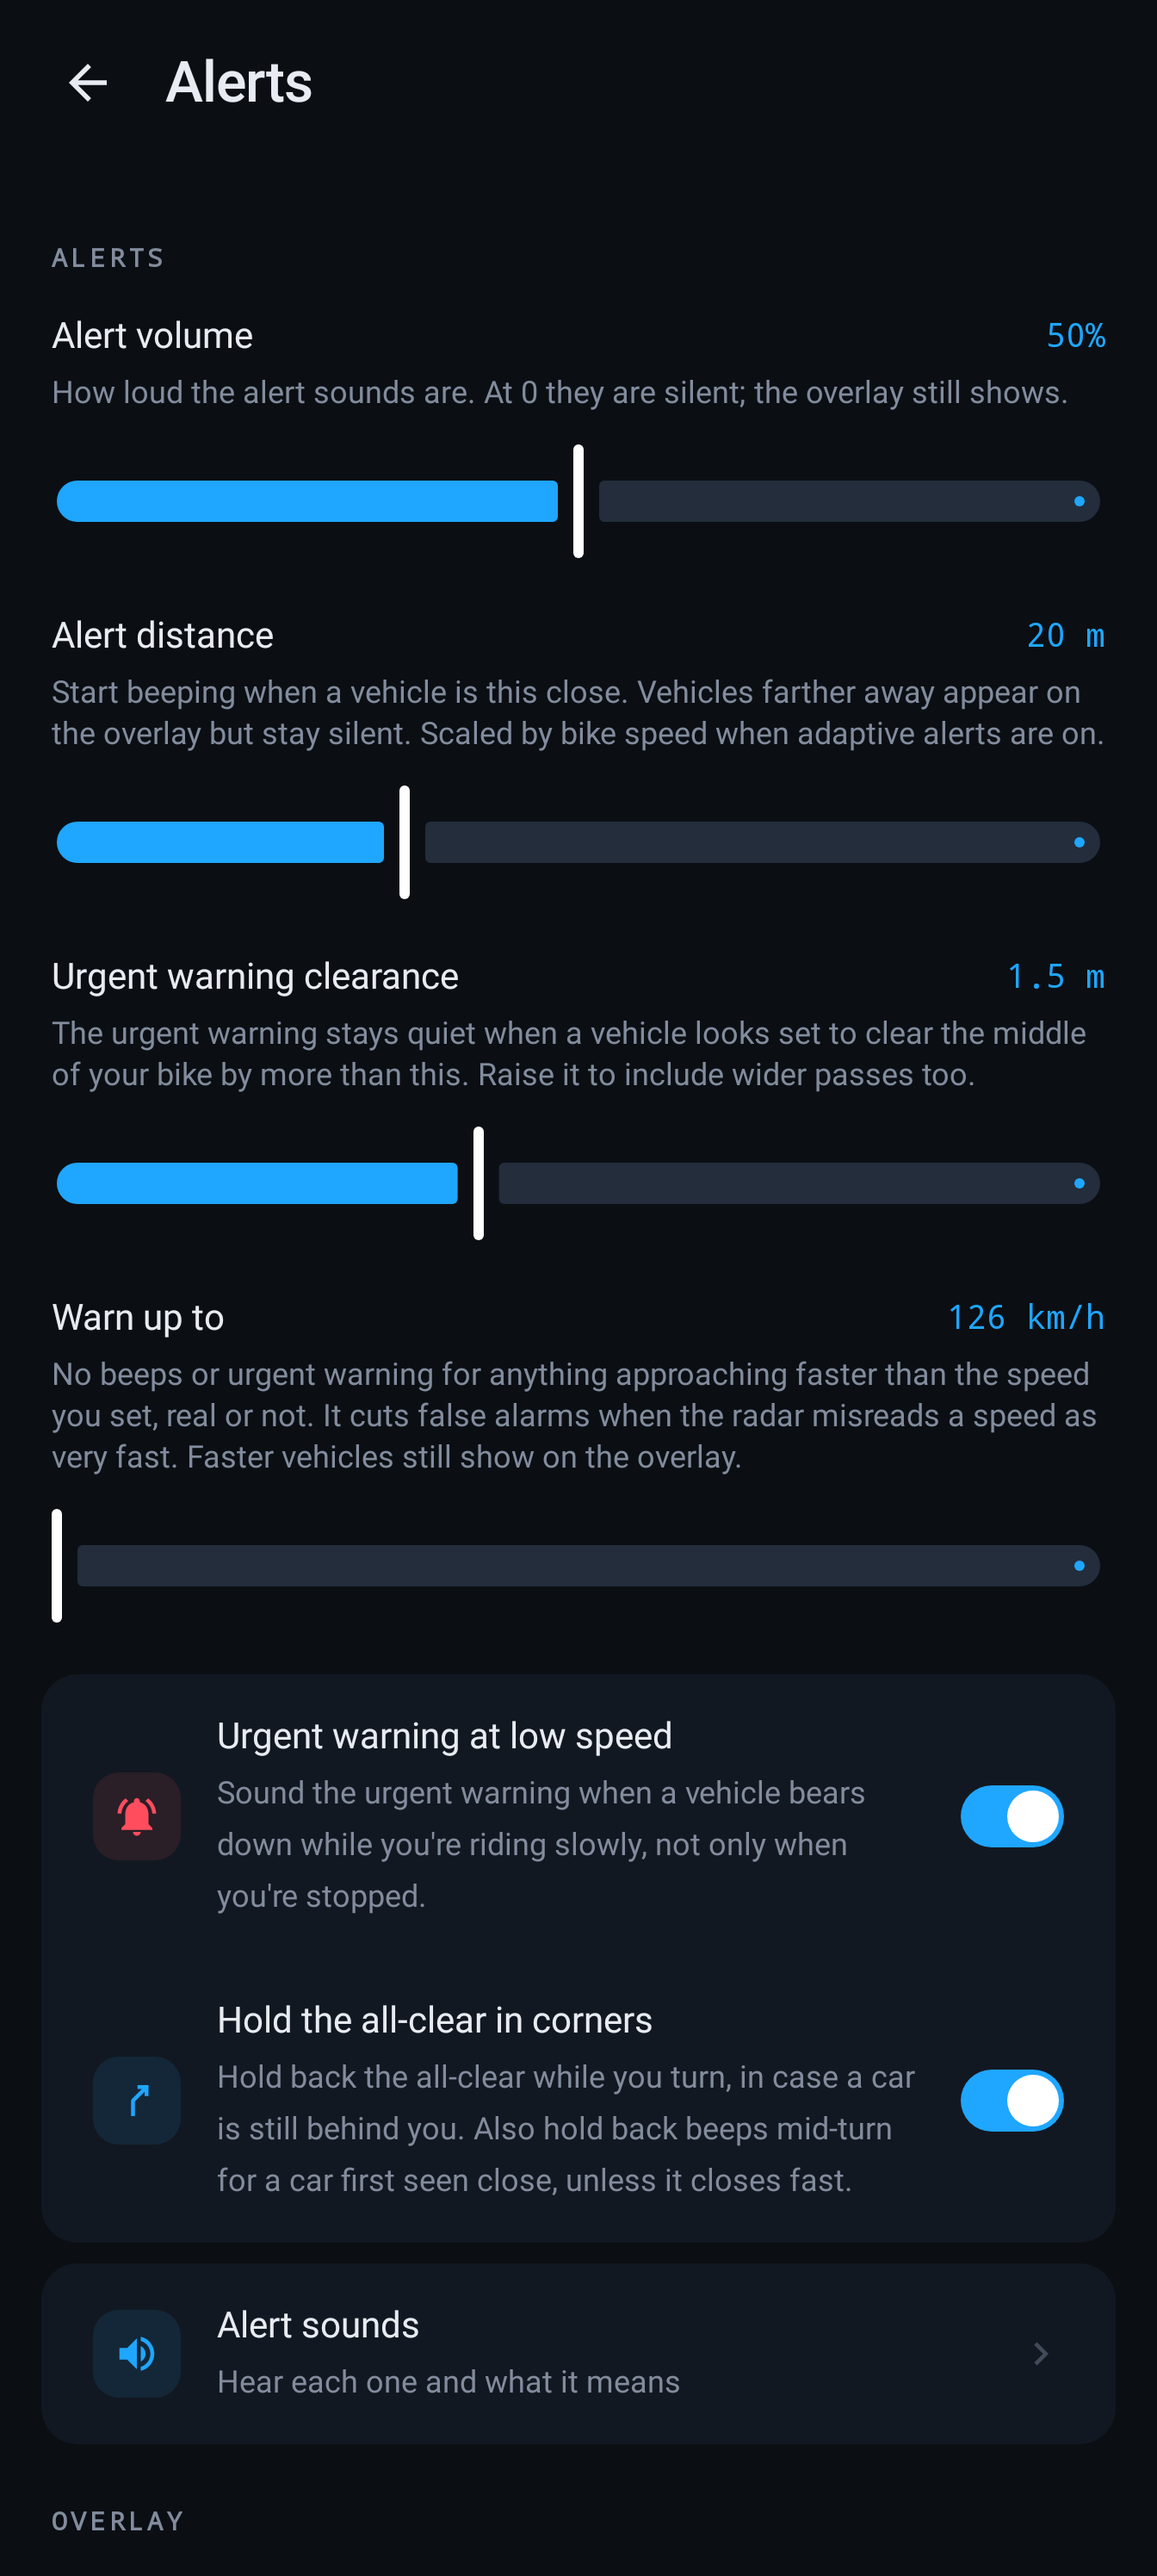
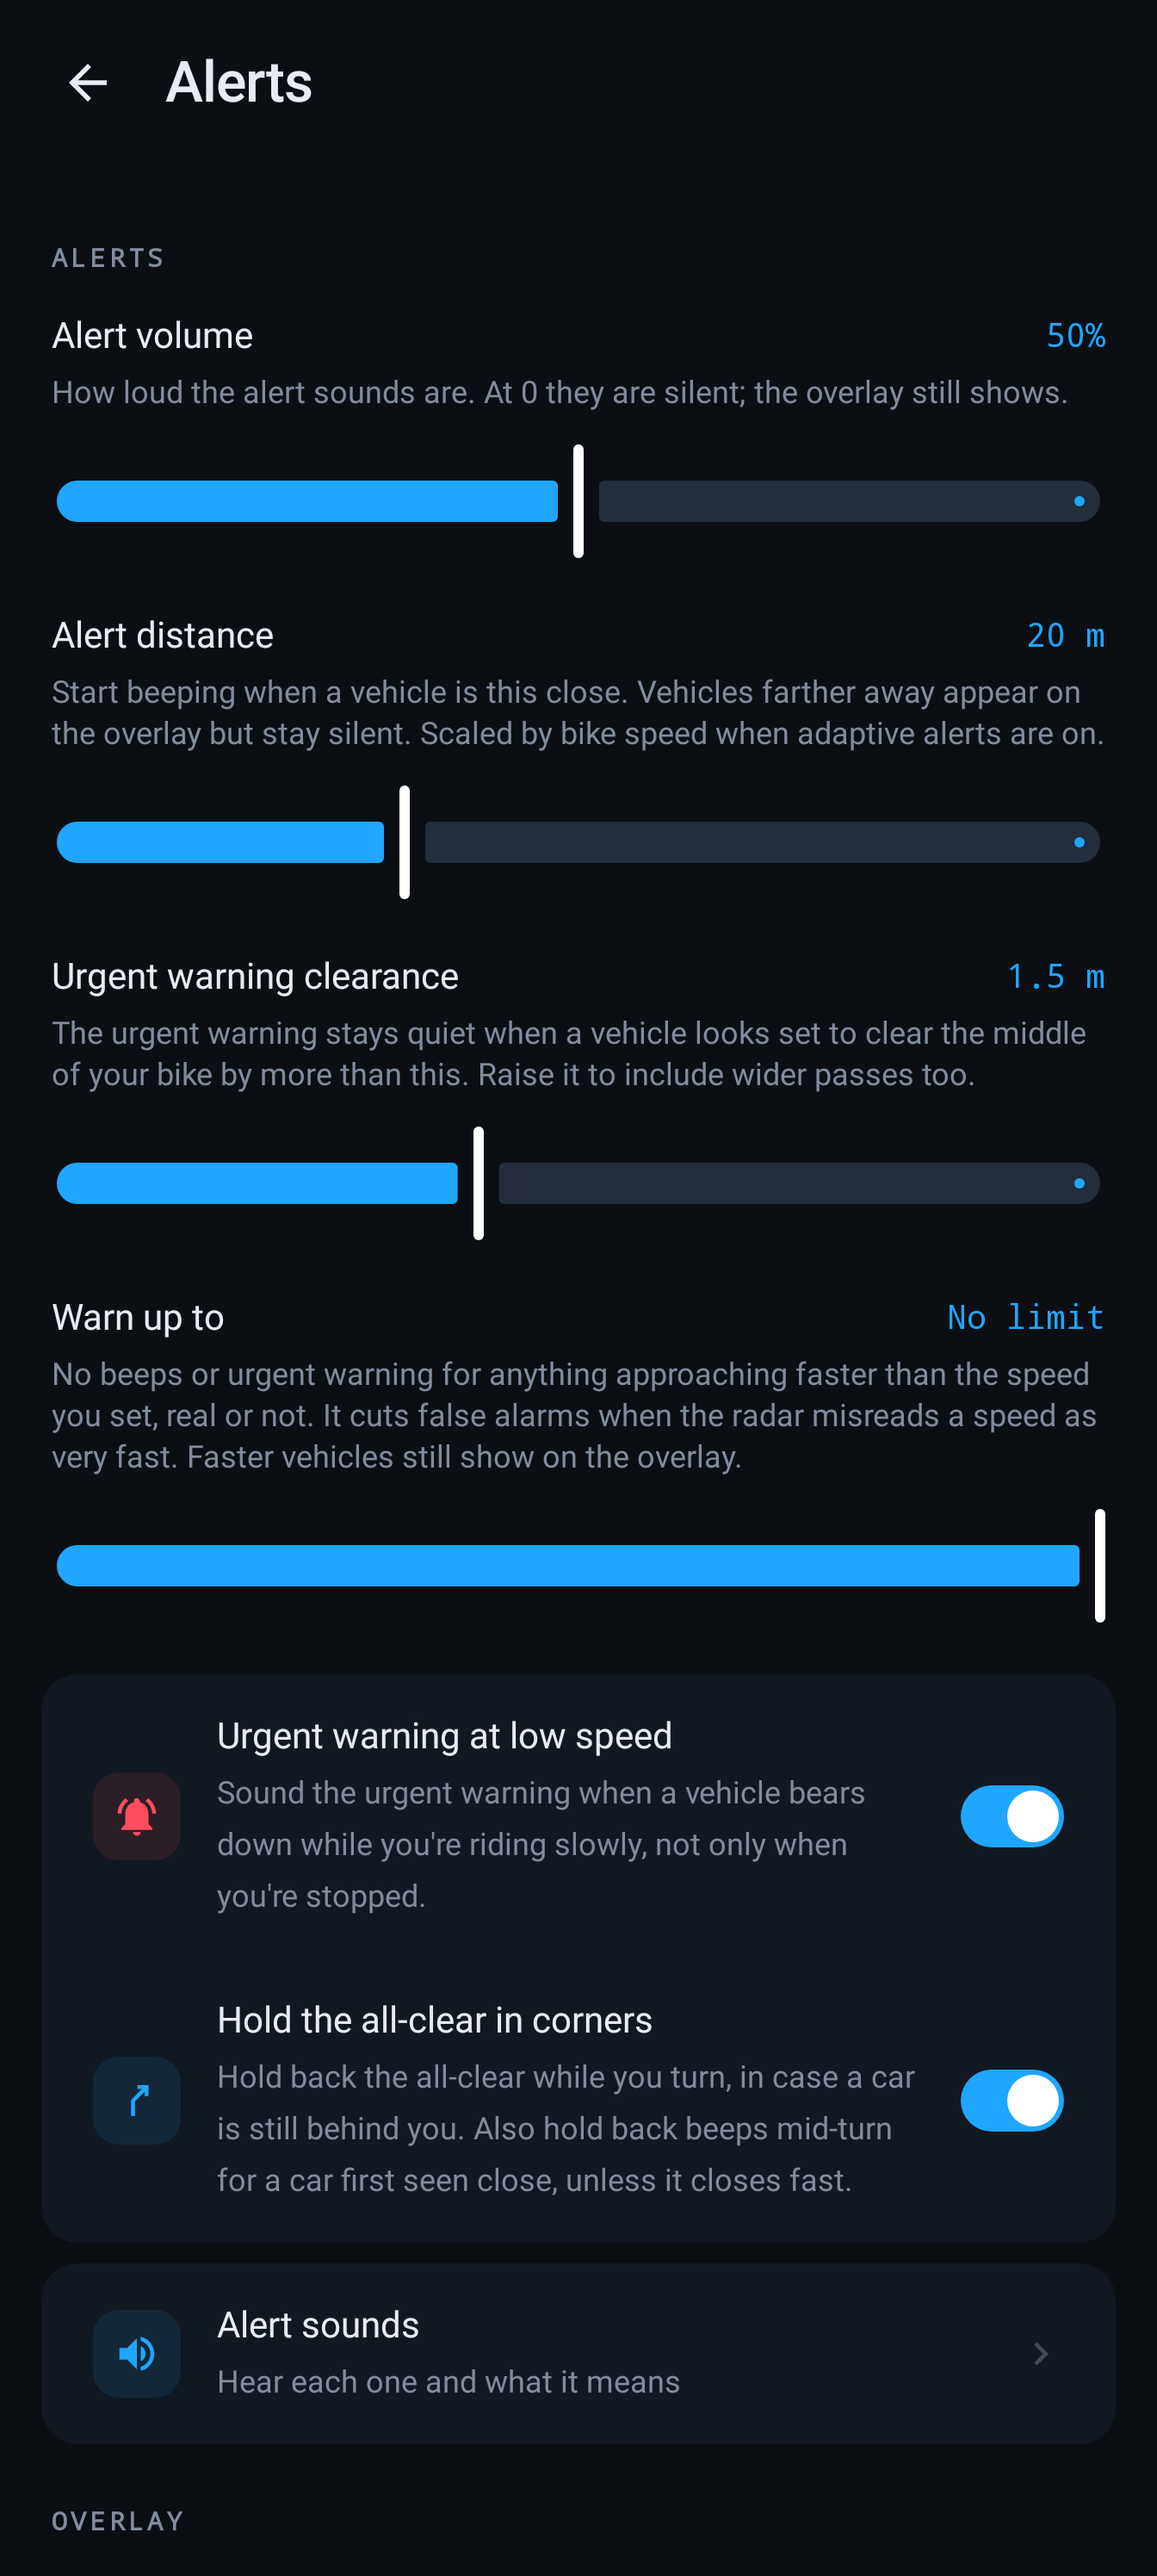
fix(alerts): ship the closing-speed ceiling off by default
A ceiling silences anything reported closing faster, real vehicles
included, and those warnings matter most. The 35 m/s default came from
phantoms on one set of roads, so a rider elsewhere could lose a real
warning without knowing it.

"Warn up to" now starts at "No limit"; a slider value is kept. Corpus
replay: 13 replays over 9 captures change, each a cue returning on a
track the old default caught, none at a plausible speed for those roads.

Changed region(s): [[0.0312, 0.5908, 0.9688, 0.6219], [0.8125, 0.4975, 0.9062, 0.5286]]

diff --git a/app/src/main/java/es/jjrh/bikeradar/AlertDecider.kt b/app/src/main/java/es/jjrh/bikeradar/AlertDecider.kt
@@ -131,9 +131,10 @@ enum class PassScoring { BIKE_ENVELOPE, RADAR_POINT }
  *    also absorbs a single-frame dropout or boundary flap. A car genuinely
  *    leaving (overtake -> `isBehind`, or cornering / turning off) clears after
  *    the grace.
- *  - **Closing-speed ceiling.** A target closing faster than the rider's
- *    ceiling ([DEFAULT_CLOSING_CEILING_MS]) never enters the close set, so it
- *    can neither cue nor stand in front of a real car as "the closest"; it
+ *  - **Closing-speed ceiling.** Off unless the rider sets one (see
+ *    [MIN_CLOSING_CEILING_MS] for the range and why there is no default).
+ *    A target closing faster than it never enters the close set, so it can
+ *    neither cue nor stand in front of a real car as "the closest"; it
  *    still counts as present for the Clear chime. A target beyond
  *    [RX_ABSURD_M] of raw lateral is treated the same way, except on a
  *    [Vehicle.lateralUnknown] frame.
@@ -600,11 +601,11 @@ class AlertDecider(
          *  veto; a predicted hit still fires at any margin. */
         passClearanceM: Float = DEFAULT_PASS_CLEARANCE_M,
         /** Closing speed (m/s) above which a target gets no cue, or null for
-         *  no limit. See [DEFAULT_CLOSING_CEILING_MS]. Not clamped here:
-         *  [data.Prefs] is the only production source. Zero or below reads as
-         *  no limit, so such a value lets every cue through rather than
-         *  silencing them. */
-        closingCeilingMs: Float? = DEFAULT_CLOSING_CEILING_MS,
+         *  no limit, the default (see [MIN_CLOSING_CEILING_MS]). Not clamped
+         *  here: [data.Prefs] is the only production source. Zero or below
+         *  reads as no limit, so such a value lets every cue through rather
+         *  than silencing them. */
+        closingCeilingMs: Float? = null,
     ): Event {
         // Rider-stationary gate. Track when the rider was last observed NOT
         // stationary; once that was more than stationaryDwellMs ago, Beep
@@ -1772,18 +1773,20 @@ class AlertDecider(
         const val MIN_PASS_CLEARANCE_M = 0.5f
         const val MAX_PASS_CLEARANCE_M = 3.0f
 
-        /** Closing speed (m/s) above which a target is treated as a radar
-         *  glitch: it gets no beep and no urgent cue, though it is still drawn
-         *  and still holds back the all-clear. Phantoms seen in captures
-         *  have read 33.5-47 m/s, held nearly unchanged across frames, so this
-         *  default catches the faster ones only. It is also the strictest
-         *  setting the slider offers. A real vehicle closing
-         *  faster than this is silenced too; that is the trade, and why the
-         *  rider can move it to [MIN_CLOSING_CEILING_MS]..[MAX_CLOSING_CEILING_MS]
-         *  or switch it off. `AlertDeciderClosingCeilingTest` pins the boundary
-         *  (strictly faster), that a phantom changes nothing about a real car's
-         *  cues, and that it still holds back the all-clear. */
-        const val DEFAULT_CLOSING_CEILING_MS = 35f
+        /** Range (m/s) of the closing-speed ceiling a rider can set. Above the
+         *  rider's ceiling a target is treated as a radar glitch: no beep and
+         *  no urgent cue, though it is still drawn and still holds back the
+         *  all-clear. Phantoms seen in captures have read 33.5-47 m/s, held
+         *  nearly unchanged across frames.
+         *
+         *  **There is no ceiling unless the rider sets one, deliberately.** A
+         *  real vehicle closing faster is silenced too, and it is the closer a
+         *  warning matters most for; the phantoms behind these values
+         *  come from one rider's roads. Do not restore a default.
+         *  `AlertDeciderClosingCeilingTest` ("omitting the ceiling applies no
+         *  limit") and `PrefsTest` pin it; the same test class pins the
+         *  boundary (strictly faster), that a phantom changes nothing about a
+         *  real car's cues, and that it still holds back the all-clear. */
         const val MIN_CLOSING_CEILING_MS = 35f
         const val MAX_CLOSING_CEILING_MS = 50f
 

diff --git a/app/src/test/java/es/jjrh/bikeradar/OverlayPipelineDrivingTest.kt b/app/src/test/java/es/jjrh/bikeradar/OverlayPipelineDrivingTest.kt
@@ -550,16 +550,17 @@ class OverlayPipelineDrivingTest {
     @Test
     fun theRidersClosingCeilingReachesTheDecider() = runTest {
         // The decider's own tests drive the parameter directly, so they stay
-        // green if the pipeline stops passing it. Under the default 35 m/s the
-        // car is silenced; under a snapshot carrying 45, or no limit, it is
+        // green if the pipeline stops passing it. Under a snapshot carrying
+        // 35 m/s the car is silenced; under 45, or the shipped no limit, it is
         // announced, and the alert line says which ceiling let it through.
-        val shipped = driveFastCloser { prefs.snapshot() }
-        assertEquals(shipped.toString(), 0, shipped.count { it.contains("event=Beep") })
-        assertTrue(shipped.toString(), shipped.any { it.startsWith("# gate ceiling tid=8") })
+        val strict = driveFastCloser { prefs.snapshot().copy(closingSpeedCeilingMs = 35) }
+        assertEquals(strict.toString(), 0, strict.count { it.contains("event=Beep") })
+        assertTrue(strict.toString(), strict.any { it.startsWith("# gate ceiling tid=8") })
         val raised = driveFastCloser { prefs.snapshot().copy(closingSpeedCeilingMs = 45) }
         assertEquals(raised.toString(), 1, raised.count { it.contains("event=Beep") && it.contains("gate_ceiling_mps=45.0") })
-        val noLimit = driveFastCloser { prefs.snapshot().copy(closingSpeedCeilingMs = null) }
-        assertEquals(noLimit.toString(), 1, noLimit.count { it.contains("event=Beep") && it.contains("gate_ceiling_mps=none") })
+        val shipped = driveFastCloser { prefs.snapshot() }
+        assertEquals(shipped.toString(), 1, shipped.count { it.contains("event=Beep") && it.contains("gate_ceiling_mps=none") })
+        assertFalse(shipped.toString(), shipped.any { it.startsWith("# gate ceiling") })
     }
 
     /** Swap in a beeper that records what it actually played. */

diff --git a/app/src/test/java/es/jjrh/bikeradar/ui/SettingsRadarClosingCeilingTest.kt b/app/src/test/java/es/jjrh/bikeradar/ui/SettingsRadarClosingCeilingTest.kt
@@ -14,6 +14,7 @@ import androidx.test.core.app.ApplicationProvider
 import es.jjrh.bikeradar.R
 import es.jjrh.bikeradar.data.Prefs
 import org.junit.Assert.assertEquals
+import org.junit.Assert.assertFalse
 import org.junit.Assert.assertNull
 import org.junit.Before
 import org.junit.Rule
@@ -63,13 +64,29 @@ class SettingsRadarClosingCeilingTest {
 
     @Test
     fun aMiddleStopPersistsItsSpeed() {
-        // Seeded at no limit, away from both the default and the target, so
-        // neither an empty release nor a reset to the default can pass.
+        // Seeded at no limit, away from the target, so an empty release
+        // cannot pass.
         prefs.closingSpeedCeilingMs = null
         showScreen()
         slider().performSemanticsAction(SemanticsActions.SetProgress) { it(2f) }
         composeRule.waitForIdle()
         assertEquals(45, Prefs(app).closingSpeedCeilingMs)
+    }
+
+    @Test
+    fun aFreshInstallOpensOnNoLimitAndStoresNothing() {
+        // The goldens render the leaf with a literal null, so a fallback to a
+        // speed in the screen itself would pass them and show a no-limit rider
+        // a ceiling, which one tap would then store.
+        showScreen()
+        composeRule.waitForIdle()
+        val node = slider().fetchSemanticsNode()
+        assertEquals("No limit", node.config[SemanticsProperties.StateDescription])
+        assertEquals(4f, node.config[SemanticsProperties.ProgressBarRangeInfo].current, 0.001f)
+        assertFalse(
+            app.getSharedPreferences("bike_radar_prefs", android.content.Context.MODE_PRIVATE)
+                .contains(Prefs.KEY_CLOSING_SPEED_CEILING_MS),
+        )
     }
 
     @Test

diff --git a/app/src/test/java/es/jjrh/bikeradar/AlertDeciderClosingCeilingTest.kt b/app/src/test/java/es/jjrh/bikeradar/AlertDeciderClosingCeilingTest.kt
@@ -89,15 +89,14 @@ class AlertDeciderClosingCeilingTest {
         assertTrue(run(approach, bikeSpeedMs = 0f, ceiling = 40f).any { it is Event.UrgentApproach })
     }
 
-    @Test fun `omitting the ceiling applies the shipped default`() {
-        // 37.5 m/s, the slowest phantom the default exists to catch: silenced
-        // at 35, voiced at 40, so this tells the two apart.
-        val phantom37 = listOf(83, 76, 68, 61, 53, 46, 38, 31, 23, 16, 8).map { listOf(target(85, it, 37.5f)) } +
-            List(15) { emptyList() }
-        assertTrue(run(phantom37, bikeSpeedMs = 5f, ceiling = 40f).any { it is Event.Beep })
+    @Test fun `omitting the ceiling applies no limit`() {
+        // 64 m/s is the fastest closing speed the decoder can report, so any
+        // default ceiling below it would silence this target.
+        val fast = listOf(77, 64, 51, 38, 26, 13).map { listOf(target(9, it, 64f)) } + List(15) { emptyList() }
+        assertEquals(emptyList<Event>(), run(fast, bikeSpeedMs = 5f, ceiling = 50f).audible())
         val d = AlertDecider()
-        val events = phantom37.mapIndexed { i, vs -> d.decide(vs, alertMax, 600L + i * frameMs, bikeSpeedMs = 5f) }
-        assertEquals(emptyList<Event>(), events.audible())
+        val events = fast.mapIndexed { i, vs -> d.decide(vs, alertMax, 600L + i * frameMs, bikeSpeedMs = 5f) }
+        assertTrue(events.any { it is Event.Beep })
     }
 
     @Test fun `a phantom closer than a real car changes nothing about the real car's beeps`() {

diff --git a/app/src/test/java/es/jjrh/bikeradar/data/PrefsTest.kt b/app/src/test/java/es/jjrh/bikeradar/data/PrefsTest.kt
@@ -682,12 +682,16 @@ class PrefsTest {
     }
 
     @Test
-    fun `the closing-speed ceiling defaults to 35 and reaches the snapshot and the bundle`() {
-        // The unset path is the one every install takes, and the snapshot is
-        // what the alert pipeline reads.
-        assertEquals(35, prefs.closingSpeedCeilingMs)
-        assertEquals(35, prefs.snapshot().closingSpeedCeilingMs)
-        assertTrue(prefs.dumpAll().contains("closing_speed_ceiling_ms=35"))
+    fun `the closing-speed ceiling defaults to no limit and reaches the snapshot and the bundle`() {
+        // The unset path is the one every install takes, including every
+        // upgrader who never moved the slider, and the snapshot is what the
+        // alert pipeline reads. A rider who chose 35 keeps it.
+        assertNull(prefs.closingSpeedCeilingMs)
+        assertNull(prefs.snapshot().closingSpeedCeilingMs)
+        assertTrue(prefs.dumpAll().contains("closing_speed_ceiling_ms=none"))
+        context.getSharedPreferences(PREFS_FILE, Context.MODE_PRIVATE).edit()
+            .putInt(Prefs.KEY_CLOSING_SPEED_CEILING_MS, 35).commit()
+        assertEquals(35, Prefs(context).snapshot().closingSpeedCeilingMs)
     }
 
     @Test

diff --git a/app/src/test/java/es/jjrh/bikeradar/ui/SettingsRadarSnapshotTest.kt b/app/src/test/java/es/jjrh/bikeradar/ui/SettingsRadarSnapshotTest.kt
@@ -82,23 +82,24 @@ class SettingsRadarSnapshotTest {
     }
 
     @Test
-    fun closingCeilingNoLimit() {
-        // The slider's last stop reads as a label, not a speed.
+    fun closingCeilingSet() {
+        // The defaults render the last stop, a label; a set ceiling reads as a
+        // speed.
         captureRoboImage {
-            UiTheme { RadarContent(haConfigured = false, closingCeiling = null) }
+            UiTheme { RadarContent(haConfigured = false, closingCeiling = 35) }
         }
     }
 
     @Test
     @Config(qualifiers = "+es")
-    fun closingCeilingNoLimitEs() {
+    fun closingCeilingSetEs() {
         captureRoboImage {
-            UiTheme { RadarContent(haConfigured = false, closingCeiling = null) }
+            UiTheme { RadarContent(haConfigured = false, closingCeiling = 35) }
         }
     }
 
     @Composable
-    private fun RadarContent(haConfigured: Boolean, closingCeiling: Int? = 35) {
+    private fun RadarContent(haConfigured: Boolean, closingCeiling: Int? = null) {
         SettingsRadarContent(
             navController = rememberNavController(),
             haConfigured = haConfigured,

diff --git a/app/src/test/java/es/jjrh/bikeradar/AlertDeciderGhostGateTest.kt b/app/src/test/java/es/jjrh/bikeradar/AlertDeciderGhostGateTest.kt
@@ -378,7 +378,7 @@ class AlertDeciderGhostGateTest {
     private fun events(
         frames: List<List<Vehicle>>,
         gateLines: MutableList<String> = mutableListOf(),
-        closingCeilingMs: Float? = AlertDecider.DEFAULT_CLOSING_CEILING_MS,
+        closingCeilingMs: Float? = null,
     ): List<AlertDecider.Event> {
         val d = AlertDecider(onGateEvent = { gateLines.add(it) })
         val c = Clock()
@@ -392,7 +392,7 @@ class AlertDeciderGhostGateTest {
         // nearer by true range until the car is inside 10.7 m. The veto must
         // not depend on the closing-speed ceiling, which a rider can turn off.
         val withOffRoad = approach.mapIndexed { i, vs -> if (i <= 22) vs + offRoad() else vs }
-        for (ceiling in listOf(AlertDecider.DEFAULT_CLOSING_CEILING_MS, null)) {
+        for (ceiling in listOf(35f, null)) {
             val alone = events(approach, closingCeilingMs = ceiling)
             assertEquals(
                 "the real car must walk the whole ladder on its own, ceiling $ceiling",

diff --git a/app/src/main/java/es/jjrh/bikeradar/data/Prefs.kt b/app/src/main/java/es/jjrh/bikeradar/data/Prefs.kt
@@ -172,13 +172,14 @@ class Prefs(context: Context) {
         }
 
     /** Closing speed (m/s) above which a target gets no beep and no urgent cue,
-     *  or null for no limit. See [AlertDecider.DEFAULT_CLOSING_CEILING_MS].
+     *  or null for no limit. No limit until the rider moves the slider, which
+     *  is the only writer; see [AlertDecider.MIN_CLOSING_CEILING_MS] for why.
      *  Stored as whole m/s with 0 meaning no limit; any other value is snapped
      *  to the nearest stop the Settings slider offers, on read and on write,
      *  so the label, the thumb and the decider never disagree. */
     var closingSpeedCeilingMs: Int?
         get() {
-            val v = sp.getInt(KEY_CLOSING_SPEED_CEILING_MS, AlertDecider.DEFAULT_CLOSING_CEILING_MS.toInt())
+            val v = sp.getInt(KEY_CLOSING_SPEED_CEILING_MS, CLOSING_CEILING_NO_LIMIT)
             return if (v == CLOSING_CEILING_NO_LIMIT) null else snapClosingCeiling(v)
         }
         set(v) {

diff --git a/app/src/main/java/es/jjrh/bikeradar/DebugOverlayService.kt b/app/src/main/java/es/jjrh/bikeradar/DebugOverlayService.kt
@@ -45,7 +45,7 @@ class DebugOverlayService : Service() {
     private var volumePct = AlertBeeper.DEFAULT_VOLUME_PCT
     private var maxDistanceM = DEFAULT_MAX_DISTANCE_M
     private var passClearanceM = AlertDecider.DEFAULT_PASS_CLEARANCE_M
-    private var closingCeilingMs: Float? = AlertDecider.DEFAULT_CLOSING_CEILING_MS
+    private var closingCeilingMs: Float? = null
     private var visualMaxM = RadarOverlayView.DEFAULT_VISUAL_MAX_M
 
     override fun onBind(intent: Intent?): IBinder? = null

diff --git a/app/src/test/java/es/jjrh/bikeradar/ui/SnapshotFixtures.kt b/app/src/test/java/es/jjrh/bikeradar/ui/SnapshotFixtures.kt
@@ -67,7 +67,7 @@ internal object SnapshotFixtures {
         radarDropTrackFallbackEnabled = true,
         radarDropTrackWindowSec = 30,
         urgentPassClearanceM = 1.5f,
-        closingSpeedCeilingMs = 35,
+        closingSpeedCeilingMs = null,
     )
 }
 
